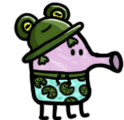
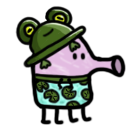
Added jumping and shooting animations

Changed region(s): [[0.0968, 0.0, 1.0, 1.0], [0.3871, 0.475, 0.4113, 0.525]]

diff --git a/DoodleJump/Source/Game/Animations/DoodleAnimator.cpp b/DoodleJump/Source/Game/Animations/DoodleAnimator.cpp
@@ -9,12 +9,53 @@ DoodleAnimator::DoodleAnimator(Doodle* owner) : m_Owner(owner)
 	m_AnimMachine = AnimationMachine::Create();
 	m_AnimMachine->CreateState("left", -1);
 	m_AnimMachine->CreateState("right", -1);
+	m_AnimMachine->CreateState("left-jump", -1);
+	m_AnimMachine->CreateState("right-jump", -1);
+	m_AnimMachine->CreateState("shoot", -1);
+	m_AnimMachine->CreateState("shoot-jump", -1);
 	m_AnimMachine->SetStateAnimation("left", AssetManager::Get().GetAsset<Animation>("A_FrogDoodleLeft"));
 	m_AnimMachine->SetStateAnimation("right", AssetManager::Get().GetAsset<Animation>("A_FrogDoodleRight"));
+	m_AnimMachine->SetStateAnimation("left-jump", AssetManager::Get().GetAsset<Animation>("A_FrogDoodleLeftJump"));
+	m_AnimMachine->SetStateAnimation("right-jump", AssetManager::Get().GetAsset<Animation>("A_FrogDoodleRightJump"));
+	m_AnimMachine->SetStateAnimation("shoot", AssetManager::Get().GetAsset<Animation>("A_FrogDoodleShoot"));
+	m_AnimMachine->SetStateAnimation("shoot-jump", AssetManager::Get().GetAsset<Animation>("A_FrogDoodleShootJump"));
 	m_AnimMachine->SetEntryState("left");
 
-	auto left_right = [=]() { return m_Owner->GetLookHDirection() > 0; };
-	auto right_left = [=]() { return m_Owner->GetLookHDirection() < 0; };
+
+	auto left_right = [=]() { return  m_Owner->GetLookHDirection() > 0; };
+	auto right_left = [=]() { return  m_Owner->GetLookHDirection() < 0; };
+	auto left_lj = [=]() { return m_Owner->IsJumping();};
+	auto lj_left = [=]() { return !m_Owner->IsJumping();};
+	auto right_rj = [=]() { return m_Owner->IsJumping();};
+	auto rj_right = [=]() { return !m_Owner->IsJumping();};
+	auto lj_rj = [=]() { return m_Owner->GetLookHDirection() > 0;};
+	auto rj_lj = [=]() { return m_Owner->GetLookHDirection() < 0;};
+	auto shoot_left = [=]() { return !m_Owner->IsShooting() && m_Owner->GetLookHDirection() < 0; };
+	auto left_shoot = [=]()	{ return m_Owner->IsShooting(); };
+	auto shoot_right = [=]() { return !m_Owner->IsShooting() && m_Owner->GetLookHDirection() > 0; };
+	auto right_shoot = [=]() { return m_Owner->IsShooting(); };
+	auto shoot_sj = [=]() { return m_Owner->IsJumping(); };
+	auto sj_shoot = [=]() { return !m_Owner->IsJumping(); };
+	auto lj_sj = [=]() { return m_Owner->IsShooting(); };
+	auto sj_lj = [=]() { return !m_Owner->IsShooting() && m_Owner->GetLookHDirection() < 0;; };
+	auto rj_sj = [=]() { return m_Owner->IsShooting(); };
+	auto sj_rj = [=]() { return !m_Owner->IsShooting() && m_Owner->GetLookHDirection() > 0; };
 	AddTransition("left", "right", left_right);
 	AddTransition("right", "left", right_left);
+	AddTransition("left", "left-jump", left_lj);
+	AddTransition("left-jump", "left", lj_left);
+	AddTransition("right", "right-jump", right_rj);
+	AddTransition("right-jump", "right", rj_right);
+	AddTransition("right-jump", "left-jump", rj_lj);
+	AddTransition("left-jump", "right-jump", lj_rj);
+	AddTransition("shoot", "left", shoot_left);
+	AddTransition("left", "shoot", left_shoot);
+	AddTransition("shoot", "right", shoot_right);
+	AddTransition("right", "shoot", right_shoot);
+	AddTransition("shoot", "shoot-jump", shoot_sj);
+	AddTransition("shoot-jump", "shoot", sj_shoot);
+	AddTransition("left-jump", "shoot-jump", lj_sj);
+	AddTransition("shoot-jump", "left-jump", sj_lj);
+	AddTransition("right-jump", "shoot-jump", rj_sj);
+	AddTransition("shoot-jump", "right-jump", sj_rj);
 }

diff --git a/DoodleJump/Source/Game/GameObjects/Doodle.cpp b/DoodleJump/Source/Game/GameObjects/Doodle.cpp
@@ -82,7 +82,19 @@ void Doodle::Tick(double deltaTime)
 			m_Immunity->SetLocation(m_BoxComponent->GetTransform().Translation);
 		}
 	}
-	//LOG("position: " + std::to_string(m_BoxComponent->GetTransform().Translation.y))
+
+	if (m_bShooting)
+	{
+		if (m_ShootTimer >= 0.35)
+			m_bShooting = false;
+		m_ShootTimer += deltaTime;
+	}
+	if (m_bJumping)
+	{
+		if (m_JumpTimer >= 0.35)
+			m_bJumping = false;
+		m_JumpTimer += deltaTime;
+	}
 }
 
 void Doodle::Destroy()
@@ -167,6 +179,8 @@ void Doodle::Shoot(InputValue& value)
 	Math::Vector2D rightEdge{ 1, 1 };
 	direction = Math::Clamp(Math::Normalize(direction), Math::Normalize(leftEdge), Math::Normalize(rightEdge));
 	projectile->Launch(direction, 70);
+	m_bShooting = true;
+	m_ShootTimer = 0;
 }
 
 void Doodle::OnCollision(std::shared_ptr<GameObject> otherObject, Math::Vector2D normal, double collisionTime)
@@ -179,6 +193,8 @@ void Doodle::OnCollision(std::shared_ptr<GameObject> otherObject, Math::Vector2D
 			m_MovementComponent->OnCollision(collisionTime);
 			Jump();
 			m_JumpsCount++;
+			m_bJumping = true;
+			m_JumpTimer = 0;
 		}
 		else if (otherTag == "monster")
 		{

diff --git a/DoodleJump/Source/Game/GameObjects/Doodle.h b/DoodleJump/Source/Game/GameObjects/Doodle.h
@@ -26,6 +26,8 @@ public:
 	int32_t GetLifesCount();
 	int32_t GetJumpsCount();
 	inline int32_t GetLookHDirection() { return m_LookHDirection; }
+	inline bool IsJumping() { return m_bJumping; }
+	inline bool IsShooting() { return m_bShooting; }
 
 	void AddMovementInput(Math::Vector2D direction);
 	void Jump();
@@ -58,5 +60,10 @@ private:
 	bool m_bInputEnabled = true;
 	bool m_bPhysicsCollisionEnabled = true;
 
-	int32_t m_LookHDirection = 0;
+	int32_t m_LookHDirection = -1;
+	bool m_bJumping = false;
+	bool m_bShooting = false;
+	double m_JumpTimer = 0;
+	double m_ShootTimer = 0;
+
 };

diff --git a/DoodleJump/Source/Core/Base/AssetManager.cpp b/DoodleJump/Source/Core/Base/AssetManager.cpp
@@ -55,7 +55,12 @@ void AssetManager::Init()
 					while (std::getline(animFile, line))
 					{
 						if (!line.empty())
-							frames.push_back(GetSpriteAsset(line));
+						{
+							if (m_AssetMap.count(line))
+								frames.push_back(GetSpriteAsset(line));
+							else
+								LOG("Unvalid animation frame referenced in animation file: " + entryPath.string());
+						}
 					}
 					animFile.close();
 				}

diff --git a/DoodleJump/Source/Core/Renderer/Animator.cpp b/DoodleJump/Source/Core/Renderer/Animator.cpp
@@ -1,4 +1,5 @@
 #include "Animator.h"
+#include "Core/Base/Log.h"
 
 
 void Animator::Update(double deltaTime)
@@ -11,6 +12,7 @@ void Animator::Update(double deltaTime)
 		if (tCondition)
 		{
 			m_AnimMachine->SwitchState(targetState);
+			LOG("State switched: " + activeState + " ====>> " + targetState);
 		}
 	}
 

diff --git a/DoodleJump/Source/DoodleJump.cpp b/DoodleJump/Source/DoodleJump.cpp
@@ -52,8 +52,8 @@ int main(int argc, char* argv[])
 	}
 	else
 	{
-		width = 400;
-		height = 800;
+		width = 500;
+		height = 900;
 		fullscreen = false;
 	}
 

diff --git a/README.md b/README.md
@@ -55,6 +55,7 @@ Several improvements have been made after the initial release, including:
 * Platfrom spawner: Imroved platform spawner logic 
 * Assets: Created Asset Manager and asset handlers
 * Adaptive scene aspect ratio: Implemented dynamic handling of various window sized for better visual consistency
+* Animations: Added jumping and shooting animations
 
 
 ### Plan
@@ -62,8 +63,8 @@ I plan to implement the following features and improvements in the future:
 * Remake main menu with custom background, buttons, additional widgets
 * Add Themes. Theme switch should load theme assets
 * Add score serialization
-* Animations: Add new animations (jump, shoot, etc.) 
 * optimize performance
+* Make all assets 128x128 size
 
 ### Possible Enhancements
 * Make use of `weak_ptr`
